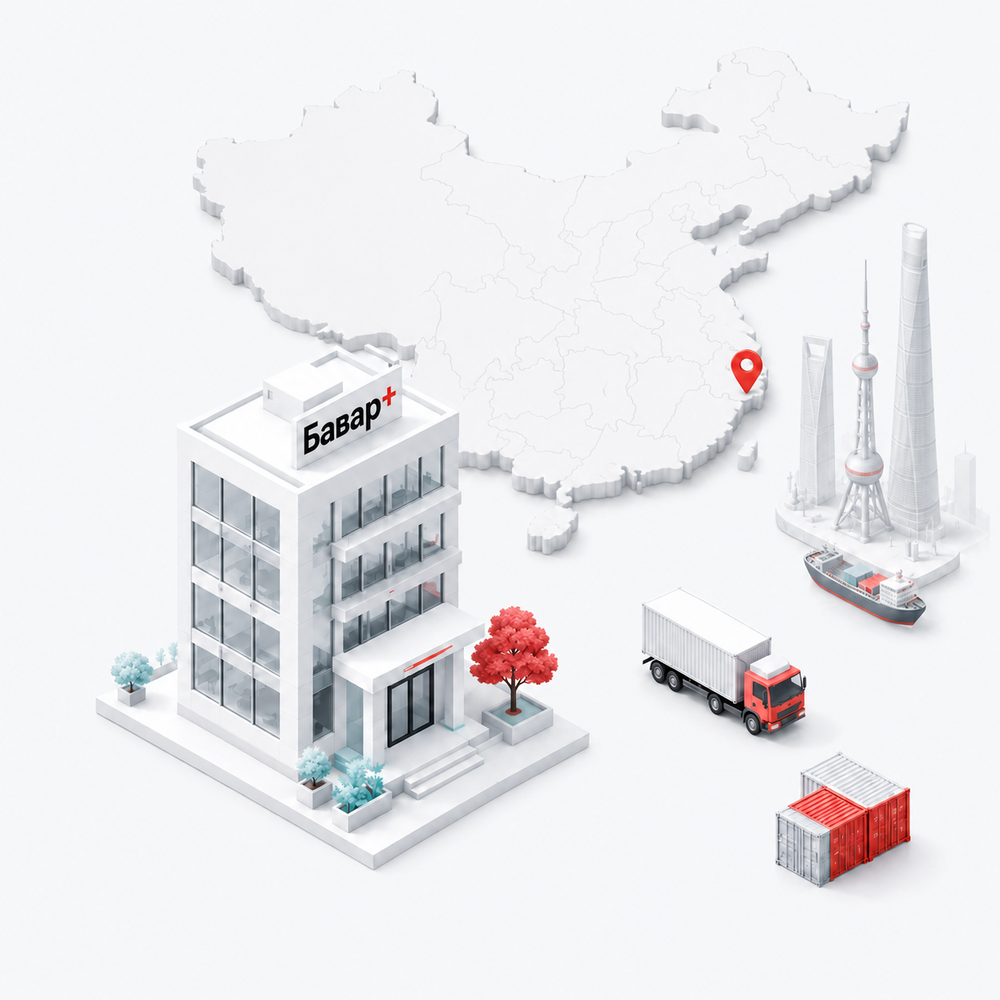
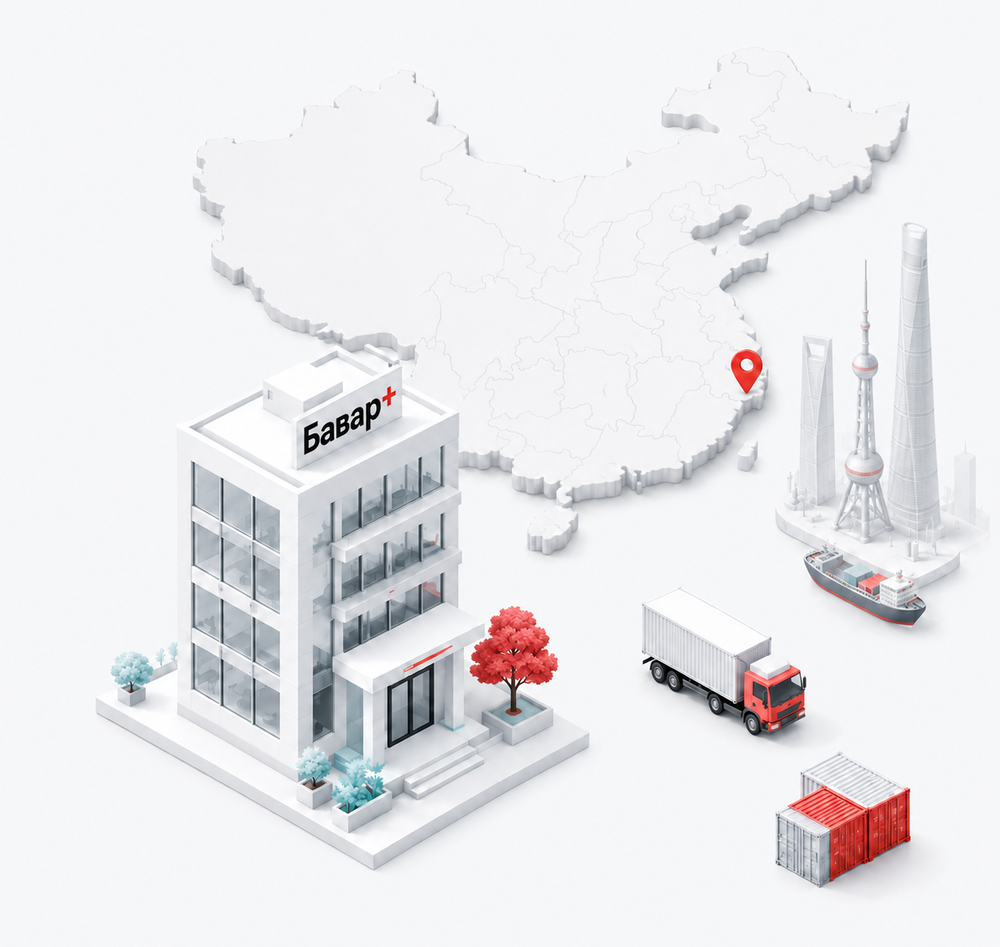
Block 09: fix bottom whitespace asymmetry
- Cap illustration height to text column (flex + max-height:100%) so the
  taller image no longer leaves a 130px void below the cards
- Trim baked bottom gray of office.png so top/bottom margins balance (46/46)

diff --git a/assets/styles.css b/assets/styles.css
@@ -1508,7 +1508,7 @@ p { margin: 0; }
   display: grid;
   grid-template-columns: 1fr 1.05fr;
   gap: 48px;
-  align-items: center;
+  align-items: stretch;
 }
 @media (max-width: 1024px) { .office2 { grid-template-columns: 1fr; gap: 36px; } }
 .office2__left { align-self: start; }
@@ -1563,14 +1563,19 @@ p { margin: 0; }
 
 /* фон картинки совпадает с фоном секции (светло-серый) — сливается бесшовно,
    без рамки и без «вырезания» */
-.office2__visual { position: relative; }
+.office2__visual {
+  position: relative;
+  display: flex;
+  align-items: center;
+  justify-content: center;
+  min-height: 0;
+}
 .office2__illo {
   display: block;
-  width: 100%;
+  width: auto;
   height: auto;
-}
-@media (min-width: 1280px) {
-  .office2__illo { width: 112%; max-width: none; margin-left: -7%; }
+  max-width: 100%;
+  max-height: 100%;
 }
 
 /* старые стили шанхая (не используются, оставлены для совместимости) */

diff --git a/index.html b/index.html
@@ -8,7 +8,7 @@
 <link rel="preconnect" href="https://fonts.googleapis.com">
 <link rel="preconnect" href="https://fonts.gstatic.com" crossorigin>
 <link href="https://fonts.googleapis.com/css2?family=Inter:wght@400;500;600;700;800;900&display=swap" rel="stylesheet">
-<link rel="stylesheet" href="assets/styles.css?v=142">
+<link rel="stylesheet" href="assets/styles.css?v=143">
 </head>
 <body>
 
@@ -534,7 +534,7 @@
 
       <!-- Правая колонка: изометрия офиса (multiply на белом фоне) -->
       <div class="office2__visual">
-        <img class="office2__illo lz" data-src="assets/office.png?v=3" alt="Офис Бавар+ в Шанхае на карте Китая">
+        <img class="office2__illo lz" data-src="assets/office.png?v=4" alt="Офис Бавар+ в Шанхае на карте Китая">
       </div>
     </div>
   </div>
